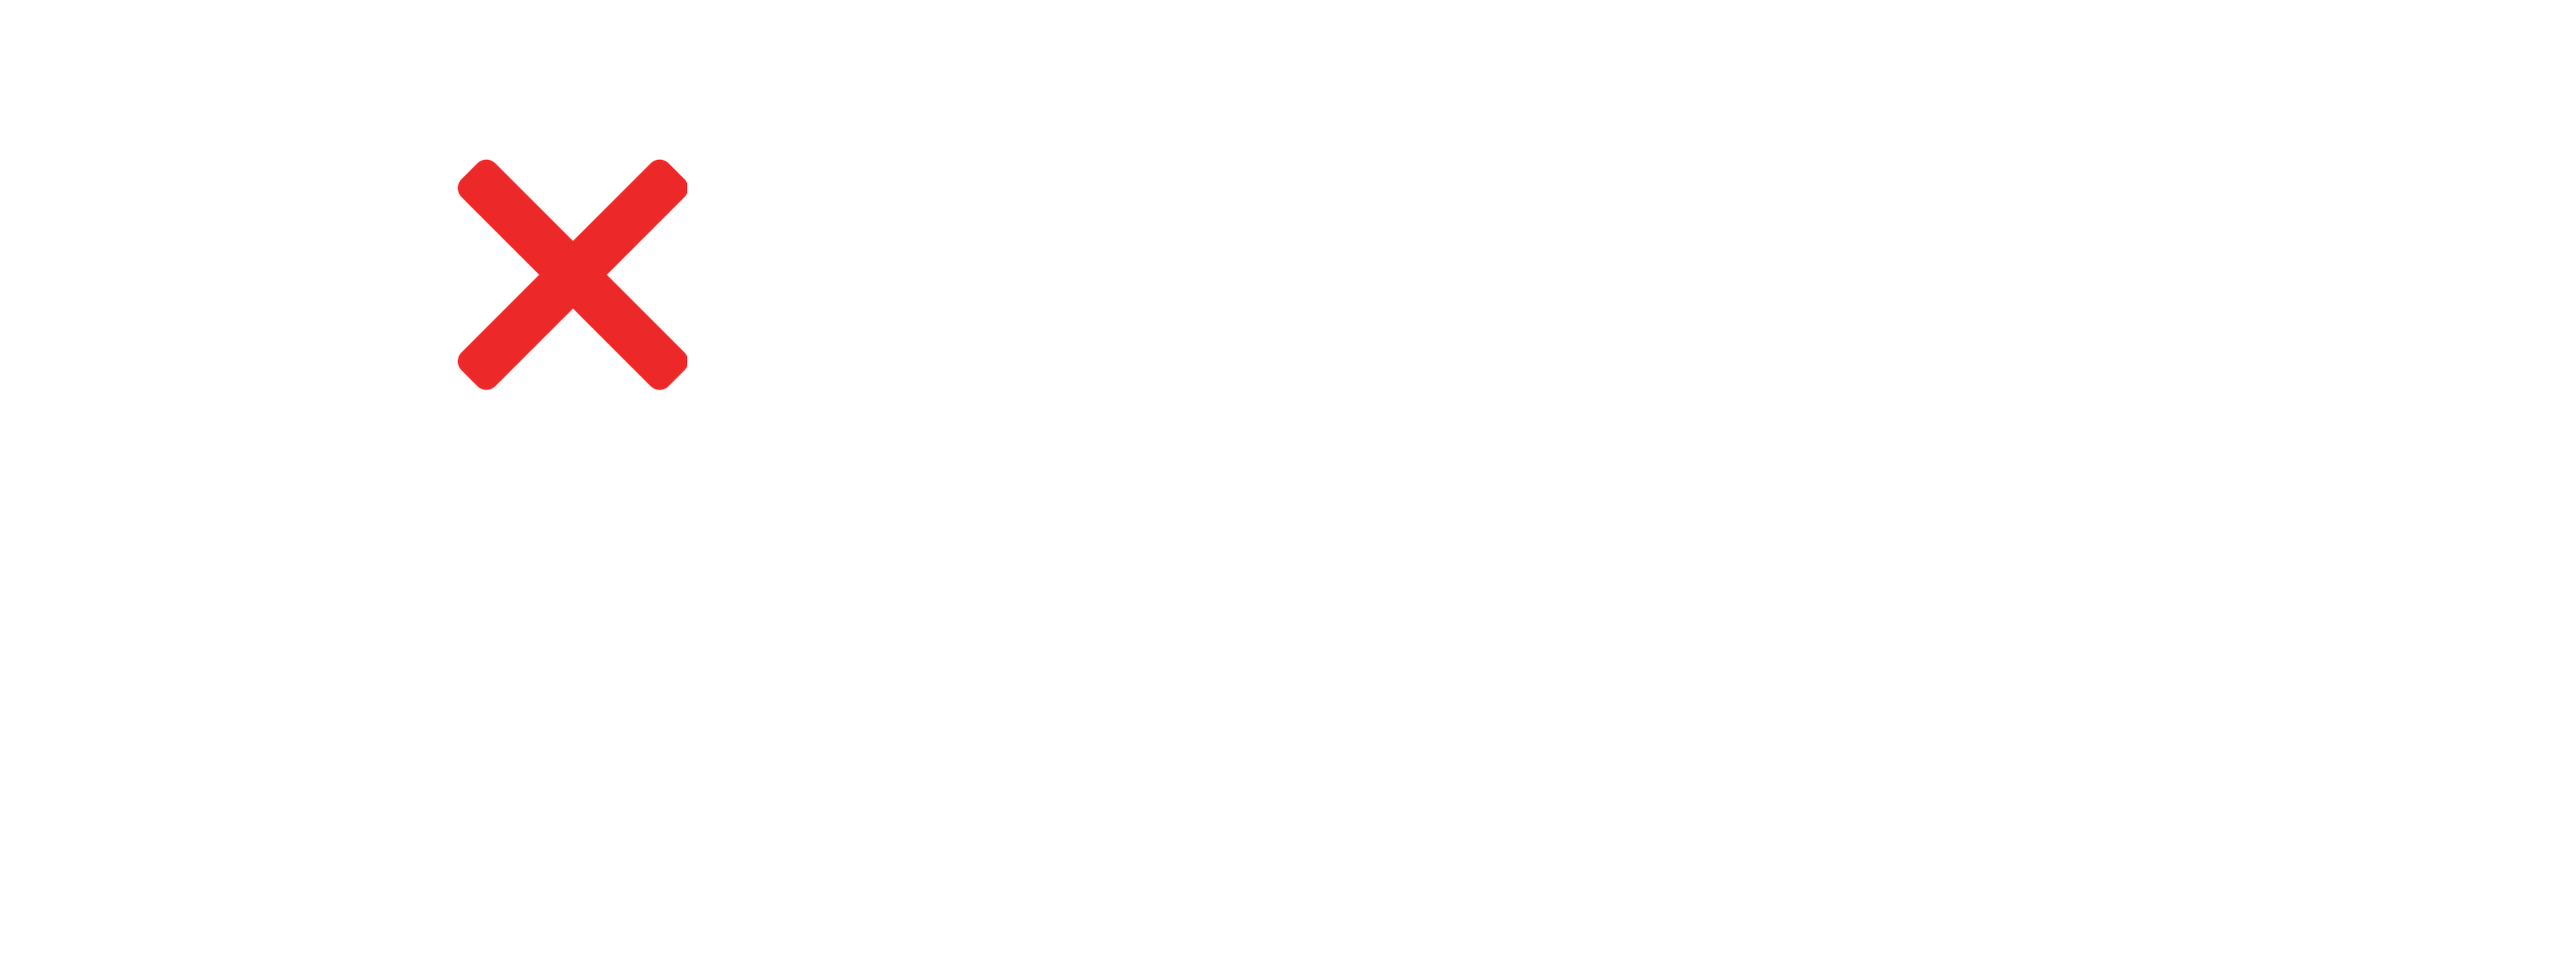
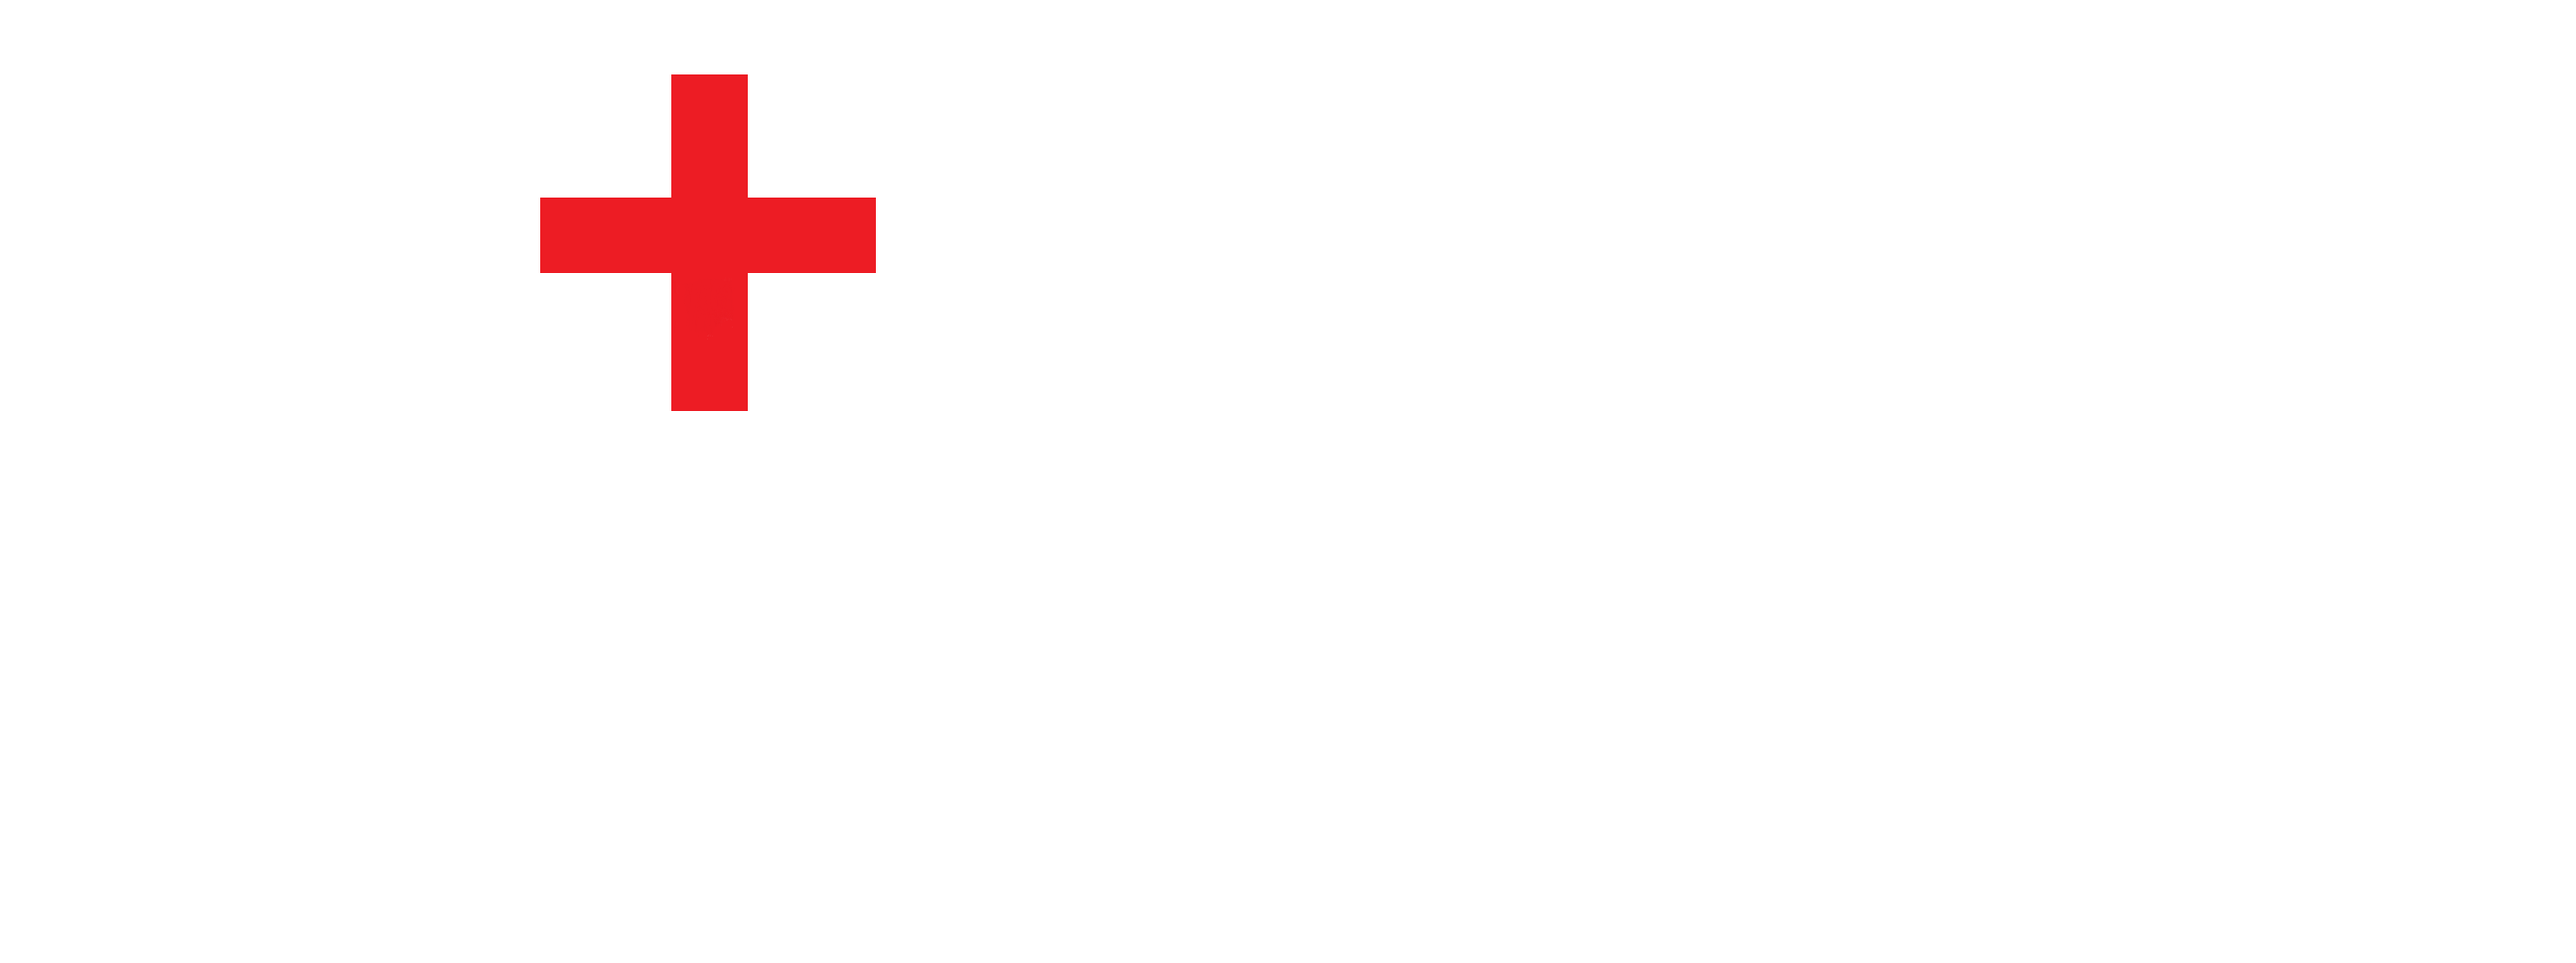
winners screen

Changed region(s): [[0.1561, 0.0619, 0.3435, 0.433]]

diff --git a/index.html b/index.html
@@ -12,50 +12,71 @@
 
 <body>
     <div class="section">
-        <table>
-            <tr>
-                <td onclick="fillShape(0)">
-                    <img id="circle-0" class="shape d-none " src="img/circle.png">
-                    <img id="cross-0" class="shape d-none" src="img/cross.png">
-                </td>
-                <td onclick="fillShape(1)">
-                    <img id="circle-1" class="shape d-none " src="img/circle.png">
-                    <img id="cross-1" class="shape d-none" src="img/cross.png">
-                </td>
-                <td onclick="fillShape(2)">
-                    <img id="circle-2" class="shape d-none " src="img/circle.png">
-                    <img id="cross-2" class="shape d-none" src="img/cross.png">
-                </td>
-            </tr>
-            <tr>
-                <td onclick="fillShape(3)">
-                    <img id="circle-3" class="shape d-none" src="img/circle.png">
-                    <img id="cross-3" class="shape d-none" src="img/cross.png">
-                </td>
-                <td onclick="fillShape(4)">
-                    <img id="circle-4" class="shape d-none" src="img/circle.png">
-                    <img id="cross-4" class="shape d-none" src="img/cross.png">
-                </td>
-                <td onclick="fillShape(5)">
-                    <img  id="circle-5"class="shape d-none" src="img/circle.png">
-                    <img id="cross-5" class="shape d-none" src="img/cross.png">
-                </td>
-            </tr>
-            <tr>
-                <td onclick="fillShape(6)">
-                    <img id="circle-6" class="shape d-none" src="img/circle.png">
-                    <img id="cross-6" class="shape d-none" src="img/cross.png">
-                </td>
-                <td onclick="fillShape(7)">
-                    <img id="circle-7" class="shape d-none" src="img/circle.png">
-                    <img id="cross-7" class="shape d-none" src="img/cross.png">
-                </td>
-                <td onclick="fillShape(8)">
-                    <img id="circle-8" class="shape d-none" src="img/circle.png">
-                    <img id="cross-8" class="shape d-none" src="img/cross.png">
-                </td>
-            </tr>
-        </table>
+        <img class="game-over d-none" id="game-over" src="img/gameOver.jpg">
+        <button class="btn-restart d-none" id="btn-restart" onclick="reload()">RESTART</button>
+        <div class="player-panel">
+            <div class="player" id="player-1">
+                <img src="img/circle.png">Player 1
+            </div>
+            <div class="player turn" id="player-2">
+                <img src="img/cross.png">Player 2
+            </div>
+        </div>
+
+        <div class="table-div">
+            <div id="line-0" class="horizontal-line" style="top: 182px;"></div>
+            <div id="line-1" class="horizontal-line" style="top: 289px;"></div>
+            <div id="line-2" class="horizontal-line" style="top: 392px;"></div>
+            <div id="line-3" class="horizontal-line make-vertical" style="top: 287px;left: 142px; "></div>
+            <div id="line-4" class="horizontal-line make-vertical" style="top: 287px;"></div>
+            <div id="line-5" class="horizontal-line make-vertical" style="top: 287px;left: 356px;"></div>
+            <div id="line-6" class="horizontal-line make-vertical" style="top: 287px; rotate: 45deg;"></div>
+            <div id="line-7" class="horizontal-line make-vertical" style="top: 287px; rotate: -45deg;"></div>
+            <table>
+                <tr>
+                    <td onclick="fillShape(0)">
+                        <img id="circle-0" class="shape d-none " src="img/circle.png">
+                        <img id="cross-0" class="shape d-none" src="img/cross.png">
+                    </td>
+                    <td onclick="fillShape(1)">
+                        <img id="circle-1" class="shape d-none " src="img/circle.png">
+                        <img id="cross-1" class="shape d-none" src="img/cross.png">
+                    </td>
+                    <td onclick="fillShape(2)">
+                        <img id="circle-2" class="shape d-none " src="img/circle.png">
+                        <img id="cross-2" class="shape d-none" src="img/cross.png">
+                    </td>
+                </tr>
+                <tr>
+                    <td onclick="fillShape(3)">
+                        <img id="circle-3" class="shape d-none" src="img/circle.png">
+                        <img id="cross-3" class="shape d-none" src="img/cross.png">
+                    </td>
+                    <td onclick="fillShape(4)">
+                        <img id="circle-4" class="shape d-none" src="img/circle.png">
+                        <img id="cross-4" class="shape d-none" src="img/cross.png">
+                    </td>
+                    <td onclick="fillShape(5)">
+                        <img id="circle-5" class="shape d-none" src="img/circle.png">
+                        <img id="cross-5" class="shape d-none" src="img/cross.png">
+                    </td>
+                </tr>
+                <tr>
+                    <td onclick="fillShape(6)">
+                        <img id="circle-6" class="shape d-none" src="img/circle.png">
+                        <img id="cross-6" class="shape d-none" src="img/cross.png">
+                    </td>
+                    <td onclick="fillShape(7)">
+                        <img id="circle-7" class="shape d-none" src="img/circle.png">
+                        <img id="cross-7" class="shape d-none" src="img/cross.png">
+                    </td>
+                    <td onclick="fillShape(8)">
+                        <img id="circle-8" class="shape d-none" src="img/circle.png">
+                        <img id="cross-8" class="shape d-none" src="img/cross.png">
+                    </td>
+                </tr>
+            </table>
+        </div>
     </div>
 
 </body>

diff --git a/script.js b/script.js
@@ -1,28 +1,99 @@
 let fields = [];
-
+let gameOver = false;
 let currentShape = 'cross';
 
 function fillShape(id) {
-    if (currentShape == 'cross') {
-        currentShape = 'circle';
+    if (!fields[id] && !gameOver) {
+        if (currentShape == 'cross') {
+            currentShape = 'circle';
+            player1Turn();
+        }
+        else {
+            currentShape = 'cross';
+            player2Turn();
+        }
+        fields[id] = currentShape;
+        draw();
+        checkForWinner();
     }
-    else {
-        currentShape = 'cross';
-    }
-    fields[id] = currentShape;
-    draw();
 }
-
 function draw() {
     for (let i = 0; i < fields.length; i++) {
-
         if (fields[i] == 'circle') {
             document.getElementById('circle-' + i).classList.remove('d-none');
         }
-
         if (fields[i] == 'cross') {
             document.getElementById('cross-' + i).classList.remove('d-none');
         }
+    }
+}
+function player1Turn() {
+    document.getElementById('player-1').classList.add('turn');
+    document.getElementById('player-2').classList.remove('turn');
+}
+function player2Turn() {
+    document.getElementById('player-2').classList.add('turn');
+    document.getElementById('player-1').classList.remove('turn');
+}
+function checkForWinner() {
+    let winner;
+    if (fields[0] == fields[1] && fields[1] == fields[2] && fields[0]) {
+        winner = fields[0];
+        document.getElementById('line-0').style.transform = 'scaleX(1)';
+    }
+    if (fields[3] == fields[4] && fields[4] == fields[5] && fields[3]) {
+        winner = fields[3];
+        document.getElementById('line-1').style.transform = 'scaleX(1)';
+    }
+    if (fields[6] == fields[7] && fields[7] == fields[8] && fields[6]) {
+        winner = fields[6];
+        document.getElementById('line-2').style.transform = 'scaleX(1)';
+    }
+    if (fields[0] == fields[3] && fields[3] == fields[6] && fields[0]) {
+        winner = fields[0];
+        document.getElementById('line-3').style.transform = 'rotate(90deg) scaleX(1)';
+    }
+    if (fields[1] == fields[4] && fields[4] == fields[7] && fields[1]) {
+        winner = fields[1];
+        document.getElementById('line-4').style.transform = 'rotate(90deg) scaleX(1)';
+    }
+    if (fields[2] == fields[5] && fields[5] == fields[8] && fields[2]) {
+        winner = fields[2];
+        document.getElementById('line-5').style.transform = 'rotate(90deg) scaleX(1)';
+    }
+    if (fields[0] == fields[4] && fields[4] == fields[8] && fields[0]) {
+        winner = fields[0];
+        document.getElementById('line-6').style.transform = ' scaleX(1)';
 
     }
+    if (fields[2] == fields[4] && fields[4] == fields[6] && fields[2]) {
+        winner = fields[2];
+        document.getElementById('line-7').style.transform = ' scaleX(1)';
+
+    }
+    if (winner) {
+        console.log('Gewonnen der Gewinner ist', winner);
+        gameOver = true;
+        setTimeout(function () {
+            document.getElementById('game-over').classList.remove('d-none');
+            document.getElementById('btn-restart').classList.remove('d-none');
+        }, 1000);
+    }
+}
+
+function reload() {
+    document.getElementById('game-over').classList.add('d-none');
+    document.getElementById('btn-restart').classList.add('d-none');
+    fields = [];
+    gameOver = false;
+
+    for (let i = 0; i < 8; i++) {
+        document.getElementById('line-' + i).classList.add('d-none');
+    }
+
+    for (let i = 0; i < 9; i++) {
+        document.getElementById('cross-' + i).classList.add('d-none');
+        document.getElementById('circle-' + i).classList.add('d-none');
+    }
+
 }

diff --git a/style.css b/style.css
@@ -7,12 +7,24 @@ body {
     display: flex;
     justify-content: center;
     align-items: center;
+    flex-direction: column;
+
+
+}
+
+.table-div {
+    position: relative;
+    height: 800px;
+    width: 800px;
+    display: flex;
+    justify-content: center;
+    align-items: center;
 
 }
 
 table {
     border-collapse: collapse;
-    
+
 }
 
 tr {
@@ -26,11 +38,13 @@ table td {
     border: 5px solid black;
     position: relative;
 }
-table td:hover{
+
+table td:hover {
     background-color: rgba(181, 218, 181, 0.1);
+    cursor: pointer;
 }
 
-tr:first-child td{
+tr:first-child td {
     border-top: 0;
 }
 
@@ -38,27 +52,104 @@ table tr td:first-child {
     border-left: 0;
 }
 
-table tr:last-child td{
+table tr:last-child td {
     border-bottom: 0;
 
 }
 
 table tr td:last-child {
     border-right: 0;
-    
+
 }
-table tr:last-child{
+
+table tr:last-child {
     border-right: 0;
 }
 
-.shape{
+.shape {
     position: absolute;
     width: 80px;
     height: 80px;
     mix-blend-mode: multiply;
-    top:10px;
-    left:10px;
+    top: 10px;
+    left: 10px;
 }
-.d-none{
+
+.d-none {
     display: none;
+}
+
+.player-panel {
+    display: flex;
+    margin-bottom: 60px;
+
+}
+
+.player-panel img {
+    width: 70px;
+    height: 70px;
+
+}
+
+.player {
+    margin-left: 10px;
+    margin-right: 10px;
+    display: flex;
+    align-items: center;
+}
+
+.turn {
+    opacity: 20%;
+}
+
+.horizontal-line {
+    height: 10px;
+    width: 300px;
+    background-color: rgba(0, 0, 0, 0.5);
+    position: absolute;
+    transform: scaleX(0);
+    transition: transform 255ms ease-in-out;
+    z-index: 1;
+}
+
+.make-vertical {
+    transform: rotate(90deg) scaleX(0);
+    position: absolute;
+}
+
+.game-over {
+    position: absolute;
+    left: 0px;
+    right: 0px;
+    width: 100%;
+    height: 500px;
+    object-fit: cover;
+    z-index: 2;
+    animation: zoomIn 255ms ease-in-out;
+
+}
+
+@keyframes zoomIn {
+    from {
+        opacity: 0%;
+        transform: scale(0);
+    }
+
+    to {
+        opacity: 100%;
+        transform: scale(1);
+    }
+}
+
+.btn-restart {
+    background: linear-gradient( #67dddd, transparent),
+        linear-gradient( #1c4700, transparent);
+    position: absolute;
+    bottom: 33px;
+    height: 60px;
+    width: 162px;
+    cursor: pointer;
+    z-index: 3;
+
+
 }
